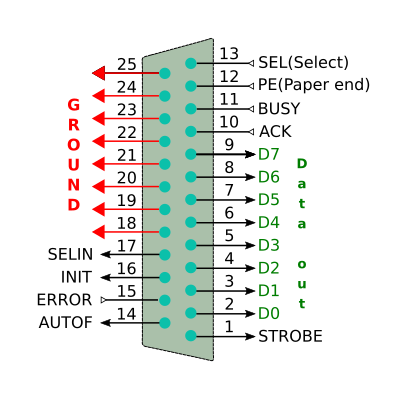
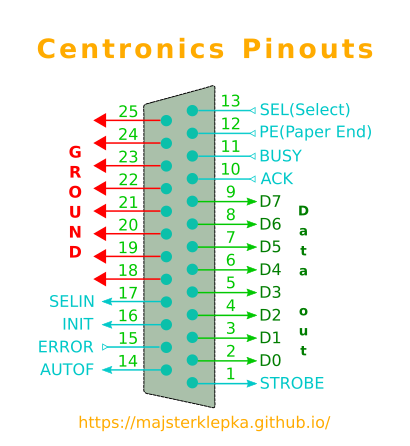
update & new content
I make update and add new content

Changed region(s): [[0.0885, 0.0602, 0.914, 0.9624]]

diff --git a/_posts/2019-07-22-connectors.md b/_posts/2019-07-22-connectors.md
@@ -1,0 +1,40 @@
+---
+lang: pl_PL
+layout: post
+title:  Connectors.
+date: 2019-07-22 05:00 UTC 
+description: Złącza, porty ... Każdy przecież komputer posiada złącza peryferyjne i to właśnie te złącza wykorzystano przy konstruowaniu programatorów. RS232, Centronics, LPT, czy nawet złącze AVR-ISP są na tyle popularne i zapomniane a jakże są użyteczne w parcowni Radioamatora.
+image: /images/programmer/connectors.png
+author: Paweł Sobótka
+tags: [electronics, component, avr, programmer,rs232, centronics, avr-isp]
+comments: true
+---
+
+## Centronics
+
+Opisane w poprzedni poście [Programator bsd]({% post_url 2019-07-17-avr-bsd-programmer %} "programator bsd") złącze Centronics
+
+![picture 1]({{site.url}}{{site.baseurl}}/images/programmer/centronics_pinout.png "Układ pinów złącza 'Centronics' (LPT) - drukarkowego")
+
+chyba najstarsze i najbardziej popularne złącze, interfejs w komputerze. Każdy komputer kiedyś je posiadał, powszechnie wykorzystywane do komunikacji z programatorami, złącze równoległe, port równoległy i co dalej ... ? Ano, złącze RS232.
+
+## RS232
+
+port szeregowy, nadal powszechnie używany w technice komputerowej, powszechnie używany w biznesie(drukarki fiskalne, terminale kasowe, skanery kasowe, wagi). W pracowni Radioamatora ma prównie powszechnei zastosowanie, programatory, akwizycja danych, LAN
+
+![picture 2]({{site.url}}{{site.baseurl}}/images/programmer/rs232_db9_pinout.png "Układ pinów złącza RS232 - szeregowego")
+
+no i wreszcie, temat cyklu:
+
+## AVR-ISP
+
+Zaprojektowny na potrzeby swoich mikrokontrolerów, przez firmę Atmel port, występujący w dwóch układach, tu moja wersja oparta o projekt programatora USBasp ...
+
+![picture 3]({{site.url}}{{site.baseurl}}/images/programmer/avr-isp.png "Układ pinów złącza AVR-ISP - złącza do programowania układów AVR")
+
+Nie jest to proste i przejrzyste, zwłascza gdy jest w jednym miejscu??!!
+
+To na razie tyle! Do zobaczenia!
+
+_mgr inż. Paweł Sobótka_
+- - - 

diff --git a/_posts/2019-07-17-avr-bsd-programmer.md b/_posts/2019-07-17-avr-bsd-programmer.md
@@ -24,7 +24,7 @@ A tu, materiały z GitHub'a : [Programmer for AVR](https://github.com/majsterkle
 
 Aha! Zapomniałbym o układzie płytki drukowanej! Oto ona:
 
-![]({{site.url}}{{site.baseurl}}/images/programmer/bsd_programmer-brd.svg.png "Układ płytki drukowanej")
+![picture 3]({{site.url}}{{site.baseurl}}/images/programmer/bsd_programmer-brd.svg.png "Układ płytki drukowanej")
 
 No i oczywiście, użycie avrdude z wykorzystaniem tego własnie programatora:
 ```
